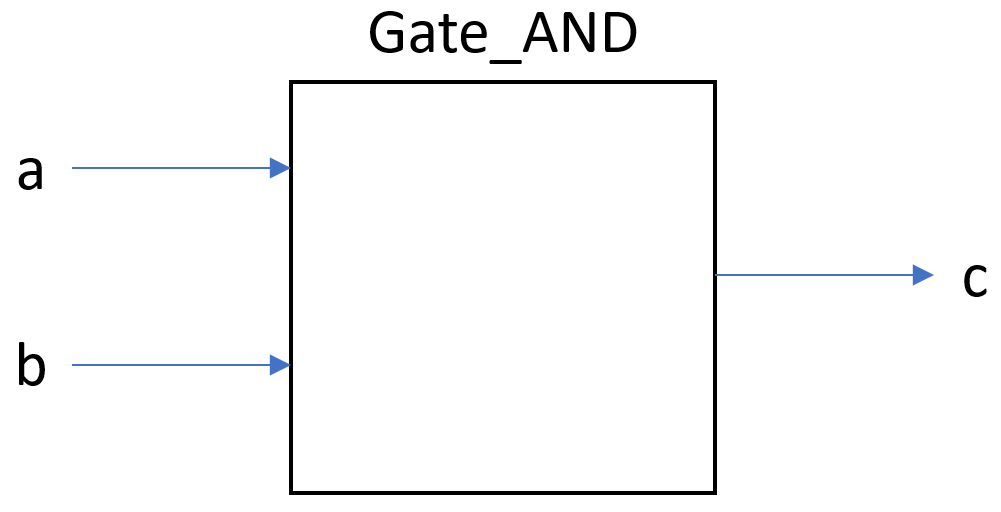
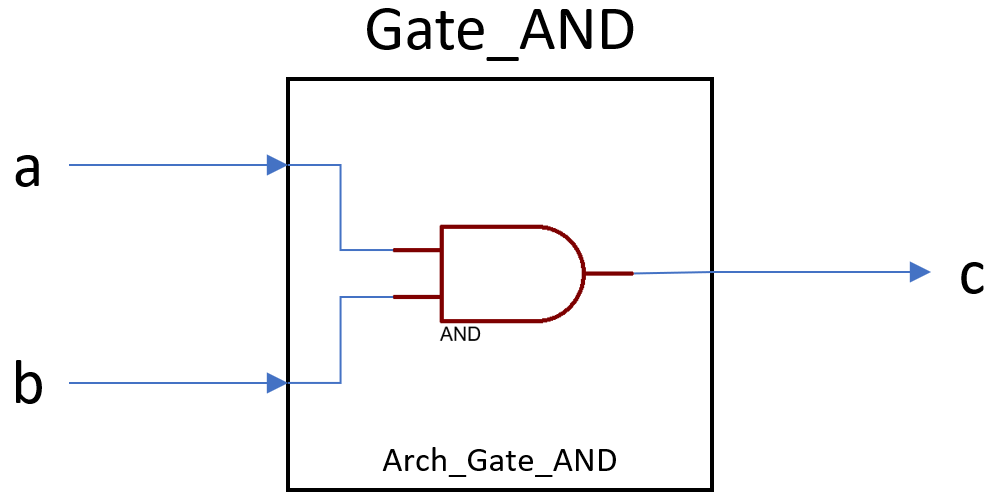
Constants, Variables and Signals on VHDL

diff --git a/Aula3/README.md b/Aula3/README.md
@@ -109,18 +109,23 @@ El programador USB Blaster es utilizado para transferir el código del PC a la F
 
 VHDL es un lenguaje de descripción de hardware a través del cual se describe (modela) la estructura y el comportamiento de circuitos digitales ejecutados en paralelo e impulsados por eventos (clock). VHDL corresponde a la mezcla entre VHSIC (Very High Speed Integrated Circuit) y HDL (Hardware Description Language).
 
-Asignación
-Constantes
-Variables
-Señales
-Condicionales
-for
+<h3>Tipos de datos</h3>
 
-Las librerías son códigos utilizados frecuentemente, las cuales pueden ser reutilizadas en todos los proyectos. Hay tres librerías muy utilizadas en VHDL:
+time
 
-1. IEEE: específica sistemas lógicos multinivel (indispensable) y proporciona tipos de datos estándarizados
-2. std: recurso de librería para ambiente de diseño de VHDL
-3. work: usado para guardar el proyecto y el archivo del programa .vhd 
+<h4>Paquete standard de la biblioteca std</h4>
+- bit: representa un estado lógico de '0' o '1' y se pueden realizar operaciones lógicas y de comparación.
+- integer: representa un valor entero en el rango de $-2^{32}$ a $2^{32}-1$ y se pueden realizar operaciones aritméticas y de comparación.
+
+<h4>paquete std_logic_1164 de la biblioteca IEEE</h4>
+- std_logic: representa diferentes estados lógicos, U, X, 0, 1, Z, W, L, H, -.
+- std_logic_vector: es vector de bits en el que cada bit representa un estado lógico.
+
+<h4>Paquete numeric_std de la biblioteca IEEE</h4>
+signed y unsigned
+
+<h4>Paquete fixed_pkg y float_pkg de la biblioteca </h4>
+punto fijo y flotante
 
 <div align="center">
 <img src="image-10.png" alt="Conversión entre tipos de datos VHDL"/>
@@ -128,7 +133,117 @@ Las librerías son códigos utilizados frecuentemente, las cuales pueden ser reu
 <figcaption>Fuente: https://blog.csdn.net/weixin_30723433/article/details/95658653</figcaption>
 </div>
 
-La entidad
+<h3>Asignación</h3>
+
+La asignación de valores para constantes y variables es realizada a través del simbolo ':=', las cuales ocurren inmediatamente, independientemente del tiempo, y para puertos de entrada, salida y bidireccionales, al igual que para señales, la asignación es hecha por medio del simbolo '<=', las cuales ocurren en el siguiente cambio de tiempo (sentencia WAIT o fin de sentencia concurrente).
+
+* La inicialización de constantes, variables y señales se realiza a través del simbolo ':='.
+
+<h3>Constantes</h3>
+
+Las constantes mantienen el valor inicializado del tipo de dato declarado durante toda la ejecución del código. Se declaran dentro de la arquitectura, pero antes del 'BEGIN'. La sintaxis es la siguiente:
+
+```vhdl
+CONSTANT constante1 : integer := 4;
+CONSTANT constante2 : std_logic := `1' ‘1';
+CONSTANT constante3 : time := 10 ns;
+```
+
+<h3>Variables</h3>
+
+Las variables guardan un valor del tipo de dato declarado y pueden ser modificadas a lo largo de la ejecución del código. Si no se inicializa, toma por defecto el menor valor del tipo de dato declarado. Se declaran dentro de los procesos o subprogramas, aunque con el comando SHARED pueden ser compatidas dentro de toda la arquitectura (no recomendable), pero antes del 'BEGIN'. La sintaxis es la siguiente:
+
+```vhdl
+VARIABLE variable1 : integer := 0;
+VARIABLE variable2 : std_logic := `1' ‘1';
+VARIABLE variable3 : bit := 1;
+```
+
+<h3>Señales</h3>
+
+Las señales representan conexiones física (cables) que interconectan componentes dentro de una arquitectura y entidades a través de un mapeo de puertos. Las señales guardan valores que pueden cambiar. Si no se inicializan las señales, por defecto se asigna el estado 'U'. Se declaran en sentencias concurrentes, pero antes del 'BEGIN'. La sintaxis es la siguiente:
+
+```vhdl
+SIGNAL signal1 : integer := 0;
+SIGNAL signal2 : std_logic := `1' ‘1';
+SIGNAL signal3 : bit := 1;
+```
+
+<h3>Sentencias concurrentes</h3>
+
+Las sentencias concurrentes se ejecutan de manera simultanea (paralelo), por lo que no tienen prioridades en la ejecución. 
+
+<h4>Procesos</h4>
+
+Los procesos se ejecutan en paralelo, sin embargo, el código dentro de cada proceso es ejecutado de manera secuencial
+
+<h4>Bloques</h4>
+
+<h4>when-else</h4>
+
+<h4>with-select</h4>
+
+
+
+<h3>Sentencias secuenciales</h3>
+
+<h4>wait</h4>
+
+<h4>Condicionales</h4>
+
+<h5>if else</h5>
+
+<h5>Case-when<h5>
+
+<h5>For-loop</h5>
+
+<h5>While</h5>
+
+<h5>Loop</h5>
+
+<h5>Exit</h5>
+
+<h5>Next</h5>
+
+<h5>Null</h5>
+
+
+
+
+
+<h3>Bibliotecas</h3>
+
+Las librerías o bibliotecas son códigos utilizados frecuentemente, las cuales pueden ser reutilizadas en todos los proyectos. La sintaxis es la siguiente:
+
+```vhdl
+LIBRARY library_name;
+USE library_name.package_name.package_parts;
+```
+
+ Hay tres librerías muy utilizadas en VHDL:
+
+1. IEEE: específica sistemas lógicos multinivel (indispensable) y proporciona tipos de datos estándarizados
+2. std: recurso de librería para ambiente de diseño de VHDL
+3. work: usado para guardar el proyecto y el archivo del programa .vhd 
+
+```vhdl
+LIBRARY IEEE;
+USE IEEE.STD_LOGIC_1164.all;
+```
+<h3>Entidad</h3>
+
+La entidad es la estructura del bloque, en donde se declaran los puertos de entrada y salida. La sintaxis es la siguiente:
+
+```vhdl
+ENTITY entity_name IS
+    PORT(
+        port1_name : port_mode port_type;
+        port2_name : port_mode port_type;
+        ...
+        portn_name : port_mode port_type;
+    );
+END entity_name;
+```
 
 <div align="center">
 <img src="image-12.png" alt="Entidad compuerta AND" width="500"/>
@@ -144,10 +259,20 @@ ENTITY Gate_AND IS
 END Gate_AND;
 ```
 
-La arquitectura
+<h3>Arquitectura</h3>
+
+La arquitectura describe el comportamiento de la entidad. La sintaxis es la siguiente:
+
+```vhdl
+ARCHITECTURE architecture_name OF entity_name IS
+    declarations
+    BEGIN
+        code ...
+END architecture_name;
+```
 
 <div align="center">
-<img src="image-14.png" alt="Arquitectura compuerta AND" width="500"/>
+<img src="image-13.png" alt="Arquitectura compuerta AND" width="500"/>
 <br>
 <figcaption>Fuente: Autor</figcaption>
 </div>
@@ -167,9 +292,7 @@ concurrente
 
 
 
-Un código en VHDL se caracteriza por dos partes fundamentales: 1. Entidad y 2. Arquitectura. La entidad es la estructura del bloque y la arquitectura es el comportamiento de dicho bloque. La sintaxis de un código en VHDL está estructurado de la siguiente manera:
-
-
+Un código en VHDL se caracteriza por dos partes fundamentales: 1. Entidad y 2. Arquitectura. La sintaxis de un modelado en VHDL de un circuito digital está estructurado de la siguiente manera:
 
 ```vhdl
 LIBRARY library_name;
@@ -185,13 +308,15 @@ ENTITY entity_name IS
 END entity_name;
 
 ARCHITECTURE architecture_name OF entity_name IS
-    declarations
+    constants and signals declarations
     BEGIN
         code ...
 END architecture_name;
 ```
 
+<h3>Ejemplo 1</h3>
 
+Modelar a través de VHDL el comportamiento de una compuerta AND.
 
 ```vhdl
 LIBRARY IEEE;

diff --git a/README.md b/README.md
@@ -23,19 +23,19 @@ En esta clase se presenta la materia, en cuanto al contenido temático, los mét
 		<td>07/02/2025</td> <td>2</td> <td>1</td> <td>1</td> <td>Presentación de la materia</td>
 	</tr>
 	<tr>
-		<td>08/02/2025</td> <td>2</td> <td>2</td> <td>1</td> <td>Sistemas numéricos y algebra booleana</td>
+		<td>08/02/2025</td> <td>2</td> <td>2</td> <td>1</td> <td>Sistemas numéricos<br>Algebra booleana</td>
 	</tr>
 	<tr>
-		<td>14/02/2025</td> <td>2</td> <td>3</td> <td>2</td> <td>Introducción a FPGA (Cyclone IV) (manual de la tarjeta), VHDL (sintaxis, entidades, test bench) e instalación de Quartus y Modelsim</td>
+		<td>14/02/2025</td> <td>2</td> <td>3</td> <td>2</td> <td>Introducción a FPGA y a VHDL</td>
 	</tr>
 	<tr>
-		<td>15/02/2025</td> <td>2</td> <td>4</td> <td>2</td> <td>Lógica combinacional (sintesis, simulación y programación)</td>
+		<td>15/02/2025</td> <td>2</td> <td>4</td> <td>2</td> <td>Instalación de Quartus y Modelsim<br>Lógica combinacional (sintesis y simulación)</td>
 	</tr>
 	<tr>
-		<td>21/02/2025</td> <td>2</td> <td>5</td> <td>3</td> <td>Desarrollo y/o entrega de laboratorio</td>
+		<td>21/02/2025</td> <td>2</td> <td>5</td> <td>3</td> <td>Programación en la tarjeta</td>
 	</tr>
 	<tr>
-		<td>22/02/2025</td> <td>2</td> <td>6</td> <td>3</td> <td>Multiplexadores, memoria ROM y RAM</td>
+		<td>22/02/2025</td> <td>2</td> <td>6</td> <td>3</td> <td>Multiplexadores, Half Adder y Full Adder</td>
 	</tr>
 	<tr>
 		<td>28/02/2025</td> <td>2</td> <td>7</td> <td>4</td> <td>Desarrollo y/o entrega de laboratorio</td>
@@ -58,16 +58,16 @@ En esta clase se presenta la materia, en cuanto al contenido temático, los mét
 		<td>Fecha</td> <td>Horas</td> <td>Clase</td> <td>Semana</td> <td>Actividades</td>
 	</tr>
 	<tr>
-		<td>14/03/2025</td> <td>2</td> <td>11</td> <td>6</td> <td>Flip flops, latchs y socialización de proyecto</td>
+		<td>14/03/2025</td> <td>2</td> <td>11</td> <td>6</td> <td>memoria ROM y RAM y socialización de proyecto</td>
 	</tr>
 	<tr>
-		<td>15/03/2025</td> <td>2</td> <td>12</td> <td>6</td> <td>Lógica secuencial (sintesis y simulación)</td>
+		<td>15/03/2025</td> <td>2</td> <td>12</td> <td>6</td> <td>Flip flops, latchs</td>
 	</tr>
 	<tr>
-		<td>21/03/2025</td> <td>2</td> <td>13</td> <td>7</td> <td>Desarrollo y/o entrega de laboratorio</td>
+		<td>21/03/2025</td> <td>2</td> <td>13</td> <td>7</td> <td>Lógica secuencial (sintesis y simulación)</td>
 	</tr>
 		<tr>
-		<td>22/03/2025</td> <td>2</td> <td>14</td> <td>7</td> <td></td>
+		<td>22/03/2025</td> <td>2</td> <td>14</td> <td>7</td> <td>Desarrollo y/o entrega de laboratorio</td>
 	</tr>
 	<tr>
 		<td>28/03/2025</td> <td>2</td> <td>15</td> <td>8</td> <td>Desarrollo y/o entrega de laboratorio</td>
